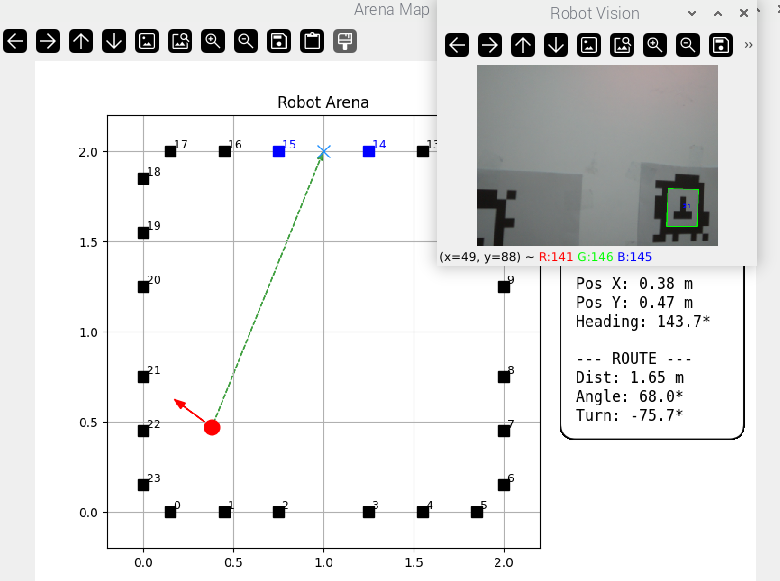
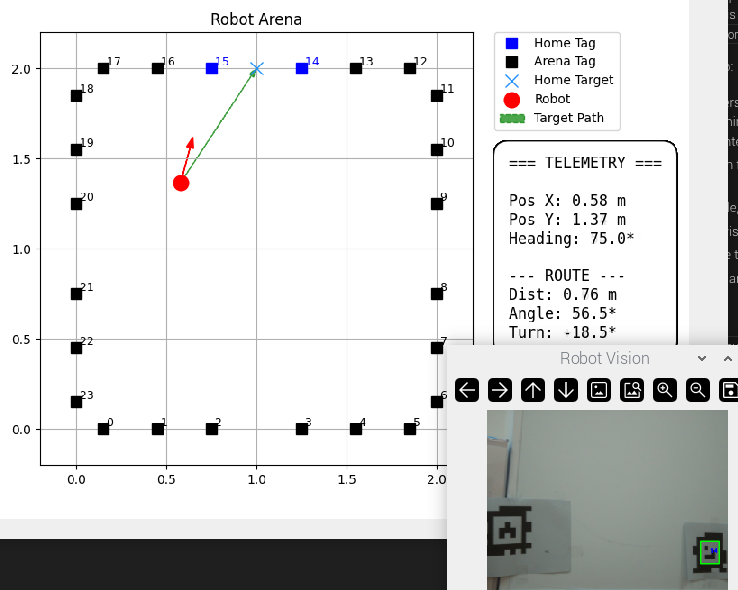
Update home navigation logic: adjust HOME_TAGS, enhance tag detection stability, and improve stopping conditions for better obstacle avoidance

diff --git a/unibots2026/robot_2wd_12V/go_to_home.py b/unibots2026/robot_2wd_12V/go_to_home.py
@@ -2,6 +2,7 @@ import cv2
 import numpy as np
 from pupil_apriltags import Detector
 import serial
+import serial.tools.list_ports
 import time
 import math
 import sys
@@ -70,7 +71,7 @@ ARENA_MAP = {
 }
 
 # --- HOME SETTINGS ---
-HOME_TAGS = [2, 3]
+HOME_TAGS = [8, 9 ]
 FINAL_ALIGN_DISTANCE_M = 0.5
 FINAL_APPROACH_TRIGGER_DISTANCE_M = 0.85
 FINAL_STOP_DISTANCE_CM = 50
@@ -87,12 +88,8 @@ ROUTE_COARSE_TURN_SPEED = '1'
 ROUTE_FINE_TURN_SPEED = '1'
 ROUTE_CONTINUOUS_TURN_HANDOFF_DEG = 25.0
 ROUTE_TRIM_TURN_DURATION_S = 0.04
-SMOOTH_APPROACH_DISTANCE_M = 0.75
-SMOOTH_APPROACH_HEADING_TOL_DEG = 12.0
-SMOOTH_APPROACH_SPEED = '1'
-FINAL_HEADING_TOL_DEG = 15.0
 HOME_X_TOL_M = 0.08
-
+FINAL_STOP_DISTANCE_CM = 50 # User requested stop distance
 
 def get_wall_axes(tag_id):
     if 0 <= tag_id <= 5:
@@ -112,31 +109,6 @@ def normalize_rotation(angle_degrees):
     return (angle_degrees + 180.0) % 360.0 - 180.0
 
 
-def blend_heading_degrees(start_heading_deg, end_heading_deg, blend_ratio):
-    blend_ratio = max(0.0, min(1.0, blend_ratio))
-    start_rad = math.radians(start_heading_deg)
-    end_rad = math.radians(end_heading_deg)
-    vec_x = (1.0 - blend_ratio) * math.cos(start_rad) + blend_ratio * math.cos(end_rad)
-    vec_y = (1.0 - blend_ratio) * math.sin(start_rad) + blend_ratio * math.sin(end_rad)
-    return heading_from_vector(vec_x, vec_y)
-
-
-def get_navigation_guidance(distance_to_home, route_heading, final_heading, robot_heading):
-    if distance_to_home <= SMOOTH_APPROACH_DISTANCE_M:
-        blend_span = max(SMOOTH_APPROACH_DISTANCE_M - FINAL_ALIGN_DISTANCE_M, 1e-6)
-        blend_ratio = (SMOOTH_APPROACH_DISTANCE_M - distance_to_home) / blend_span
-        nav_heading = blend_heading_degrees(route_heading, final_heading, blend_ratio)
-        nav_tol = SMOOTH_APPROACH_HEADING_TOL_DEG
-        nav_mode = "SMOOTH_APPROACH"
-    else:
-        nav_heading = route_heading
-        nav_tol = ROUTE_HEADING_TOL_DEG
-        nav_mode = "ROUTE"
-
-    nav_turn = normalize_rotation(nav_heading - robot_heading)
-    return nav_heading, nav_turn, nav_tol, nav_mode
-
-
 def get_home_target():
     home_points = [ARENA_MAP[tag_id] for tag_id in HOME_TAGS if tag_id in ARENA_MAP]
     mid_x = sum(point["x"] for point in home_points) / len(home_points)
@@ -150,12 +122,25 @@ def estimate_robot_pose(tags):
     pose_estimates = []
     mapped_tag_observations = []
 
+    # If we only see one home tag but we are very close to it, we might be getting
+    # bad parallax depth estimation. But we still want to count it as localized
+    # so we can keep driving forward to hit the wall.
+    # The pupil_apriltags library returns unstable results sometimes at steep angles with only one tag,
+    # but we can filter it based on z_dist being positive
+    
     for tag in tags:
         if tag.tag_id not in ARENA_MAP:
             continue
 
+        # Reject tags that solve to be "behind" the camera due to ambiguity
+        if tag.pose_t[2][0] <= 0:
+            continue
+
         tag_info = ARENA_MAP[tag.tag_id]
         tangent_vec, inward_normal_vec = get_wall_axes(tag.tag_id)
+        
+        # We need to invert the transform properly
+        # R * x + t = 0 => x = -R^T * t
         cam_pos_in_tag = -np.dot(tag.pose_R.T, tag.pose_t)
         local_tangent = -cam_pos_in_tag[0][0] / SCALE
         local_inward = -cam_pos_in_tag[2][0] / SCALE
@@ -170,22 +155,40 @@ def estimate_robot_pose(tags):
     if not pose_estimates:
         return None
 
-    total_weight = sum(weight for _, _, _, _, _, weight in pose_estimates)
-    robot_x = sum(rx * weight for _, rx, _, _, _, weight in pose_estimates) / total_weight
-    robot_y = sum(ry * weight for _, _, ry, _, _, weight in pose_estimates) / total_weight
+    # Use only the closest tag to avoid bad averaging with tiny far-away tags
+    best_tag = max(pose_estimates, key=lambda x: x[5])
+    _, robot_x, robot_y, _, _, _ = best_tag
+
+    # Or keep the weighted average, which is fine, but your heading logic was what needed fixing
     robot_x = max(0.0, min(robot_x, xmax))
     robot_y = max(0.0, min(robot_y, ymax))
 
     heading_vec_x = 0.0
     heading_vec_y = 0.0
-    for tag_id, weight in mapped_tag_observations:
-        tag_info = ARENA_MAP[tag_id]
+
+    for tag in tags:
+        if tag.tag_id not in ARENA_MAP or tag.pose_t[2][0] <= 0:
+            continue
+        
+        tag_info = ARENA_MAP[tag.tag_id]
+        weight = 1.0 / max(tag.pose_t[2][0] / SCALE, 0.05)
+        
+        # Vector from robot to tag in world frame
         vec_x = tag_info["x"] - robot_x
         vec_y = tag_info["y"] - robot_y
-        vec_norm = math.hypot(vec_x, vec_y)
-        if vec_norm > 1e-6:
-            heading_vec_x += (vec_x / vec_norm) * weight
-            heading_vec_y += (vec_y / vec_norm) * weight
+        
+        # Angle from robot to tag in the world
+        angle_to_tag_world = math.degrees(math.atan2(vec_y, vec_x))
+        
+        # Angle of tag in the camera view (X is right, Z is forward). 
+        # Positive if tag is to the right. 
+        # So true heading = angle_to_tag_world + angle_in_cam
+        angle_in_cam = math.degrees(math.atan2(tag.pose_t[0][0], tag.pose_t[2][0]))
+        
+        true_heading = angle_to_tag_world + angle_in_cam
+        
+        heading_vec_x += math.cos(math.radians(true_heading)) * weight
+        heading_vec_y += math.sin(math.radians(true_heading)) * weight
 
     robot_heading = heading_from_vector(heading_vec_x, heading_vec_y) if abs(heading_vec_x) > 1e-6 or abs(heading_vec_y) > 1e-6 else 0.0
     return robot_x, robot_y, robot_heading, pose_estimates
@@ -203,7 +206,7 @@ history_R = []
 running = True
 
 # --- SERIAL SETUP ---
-SERIAL_PORT = '/dev/ttyACM0'  
+SERIAL_PORT = '/dev/ttyACM1'  
 try:
     ser = serial.Serial(SERIAL_PORT, 115200, timeout=0)
     print(f"Connected to Arduino on {SERIAL_PORT}!")
@@ -228,6 +231,12 @@ def send_cmd(cmd, force=False):
         ser.flush()
         current_cmd = cmd
         last_cmd_time = now
+
+# Tell the robot to raise the arm at the start of the script
+print("Sending ARM UP command...")
+send_cmd(b'A\n', force=True)
+time.sleep(1) # Give the arm a moment to start moving
+
 
 # --- CAMERA SETUP & THREADING ---
 print("Starting Camera...")
@@ -440,9 +449,7 @@ def get_turn_direction_from_error(turn_error_deg):
     return 'L' if turn_error_deg > 0 else 'R'
 
 
-def get_turn_speed(turn_error_deg, nav_mode):
-    if nav_mode == "SMOOTH_APPROACH":
-        return ROUTE_FINE_TURN_SPEED
+def get_turn_speed(turn_error_deg):
     if abs(turn_error_deg) > ROUTE_COARSE_TURN_THRESHOLD_DEG:
         return ROUTE_COARSE_TURN_SPEED
     return ROUTE_FINE_TURN_SPEED
@@ -541,6 +548,8 @@ last_known_side = 1.0
 frame_skip_counter = 0
 last_tag_reacquire_backup_time = 0.0
 last_nav_motion = None
+consecutive_detections = 0
+ONE_SHOT_DISTANCE_THRESHOLD = 0.85
 
 send_cmd('1')
 
@@ -629,10 +638,16 @@ try:
         if state == "SEARCHING":
             last_nav_motion = None
             if is_localized:
-                stop_robot()
-                state = "NAVIGATING"
-                print("\n>>> Tags visible. Navigating toward home target <<<\n")
+                consecutive_detections += 1
+                if consecutive_detections >= 3:
+                    stop_robot()
+                    state = "NAVIGATING"
+                    print("\n>>> Target confirmed! Aligning and driving. <<<\n")
+                else:
+                    print(f"Waiting for tag confirmation... ({consecutive_detections}/3)")
                 continue
+            else:
+                consecutive_detections = 0 # reset counter if we lose it
 
             if (
                 should_back_up_for_tag_reacquire()
@@ -649,33 +664,35 @@ try:
             continue
 
         if state == "NAVIGATING":
+            # Check stopping distance first (only if we are close to home AND a sensor is < 30cm)
+            # This prevents us from stopping when passing an obstacle while far away
+            if distance_to_home is not None and distance_to_home <= ONE_SHOT_DISTANCE_THRESHOLD:
+                if latest_C < FINAL_STOP_DISTANCE_CM or latest_L < FINAL_STOP_DISTANCE_CM or latest_R < FINAL_STOP_DISTANCE_CM:
+                    stop_robot()
+                    print(f"HOME REACHED: Wall detected within {FINAL_STOP_DISTANCE_CM}cm (L:{latest_L} C:{latest_C} R:{latest_R})")
+                    state = "DONE"
+                    continue
+            
+            # Obstacle avoidance if not near home:
+            elif latest_C < STOP_DIST:
+                stop_robot()
+                print(f"Obstacle in the way: {latest_C}cm. Rerouting...")
+                state = "SEARCHING"
+                continue
+
+            # Fallback if we lose tags for a fraction of a second but know we are close to home
             if not is_localized:
-                stop_robot()
-                last_nav_motion = None
-                state = "SEARCHING"
-                print("Tags lost. Switching to SEARCHING.")
-                continue
-
-            if (
-                distance_to_home <= FINAL_APPROACH_TRIGGER_DISTANCE_M
-                or (home_measurement is not None and home_measurement[1] <= FINAL_APPROACH_TRIGGER_DISTANCE_M)
-            ):
-                stop_robot()
-                last_nav_motion = None
-                state = "FINAL_APPROACH"
-                trigger_distance = home_measurement[1] if home_measurement is not None else distance_to_home
-                print(
-                    f"Within final approach range ({trigger_distance:.2f}m). "
-                    f"Switching to FINAL_APPROACH."
-                )
-                continue
-
-            if latest_C < STOP_DIST:
-                stop_robot()
-                back_up_for_tag_reacquire()
-                last_tag_reacquire_backup_time = time.time()
-                state = "SEARCHING"
-                continue
+                if last_nav_motion and last_nav_motion[0] == "FORWARD" and distance_to_home is not None and distance_to_home < ONE_SHOT_DISTANCE_THRESHOLD:
+                    print("Lost tags, but close to home. Continuing blindly forward to wall.")
+                    drive_forward('1')  # Keep moving slowly
+                    continue
+                else:    
+                    stop_robot()
+                    last_nav_motion = None
+                    consecutive_detections = 0
+                    state = "SEARCHING"
+                    print("Tags lost. Switching to SEARCHING.")
+                    continue
 
             if abs(route_turn) > ROUTE_COARSE_TURN_THRESHOLD_DEG:
                 turn_direction = get_turn_direction_from_error(route_turn)
@@ -699,7 +716,8 @@ try:
                 pulse_turn(turn_direction, duration=ROUTE_FINE_TURN_DURATION_S, speed=ROUTE_FINE_TURN_SPEED)
                 continue
 
-            forward_speed = '3' if distance_to_home > 1.0 else '2'
+            # If already fairly aligned OR within the 0.85m threshold, just drive forward
+            forward_speed = '3' if distance_to_home > ONE_SHOT_DISTANCE_THRESHOLD else '2'
             motion_signature = ("FORWARD", forward_speed)
             if last_nav_motion != motion_signature:
                 print(
@@ -708,37 +726,6 @@ try:
                 )
                 last_nav_motion = motion_signature
             drive_forward(forward_speed)
-            continue
-
-        if state == "FINAL_APPROACH":
-            if latest_C <= FINAL_STOP_DISTANCE_CM:
-                stop_robot()
-                print(f"HOME REACHED: stopping at proximity distance {latest_C:.0f}cm")
-                state = "DONE"
-                continue
-
-            if not is_localized and home_measurement is None:
-                stop_robot()
-                state = "SEARCHING"
-                print("Final approach lost tags. Switching to SEARCHING.")
-                continue
-
-            if home_measurement is not None:
-                avg_home_x, avg_home_z, home_ids = home_measurement
-                print(f"Final approach using home tags {home_ids}: X={avg_home_x:.2f}m, Z={avg_home_z:.2f}m")
-                if avg_home_x > HOME_X_TOL_M:
-                    pulse_turn('R', duration=0.04, speed='1')
-                elif avg_home_x < -HOME_X_TOL_M:
-                    pulse_turn('L', duration=0.04, speed='1')
-                else:
-                    drive_forward('1')
-                continue
-
-            if abs(final_turn) > FINAL_HEADING_TOL_DEG:
-                print(f"Final heading trim {'LEFT' if final_turn > 0 else 'RIGHT'} ({final_turn:+.1f}deg)")
-                pulse_turn('L' if final_turn > 0 else 'R', duration=0.04, speed='1')
-            else:
-                drive_forward('1')
             continue
 
         if state == "DONE":
@@ -750,6 +737,12 @@ except KeyboardInterrupt:
     print("\nEmergency Stop Triggered.")
 finally:
     running = False
+    
+    # Tell the robot to lower the arm when shutting down
+    print("Sending ARM DOWN command...")
+    send_cmd(b'a\n', force=True)
+    time.sleep(1) # Give the arm a moment to start moving
+    
     stop_robot()
     time.sleep(0.1)
     picam2.stop()
